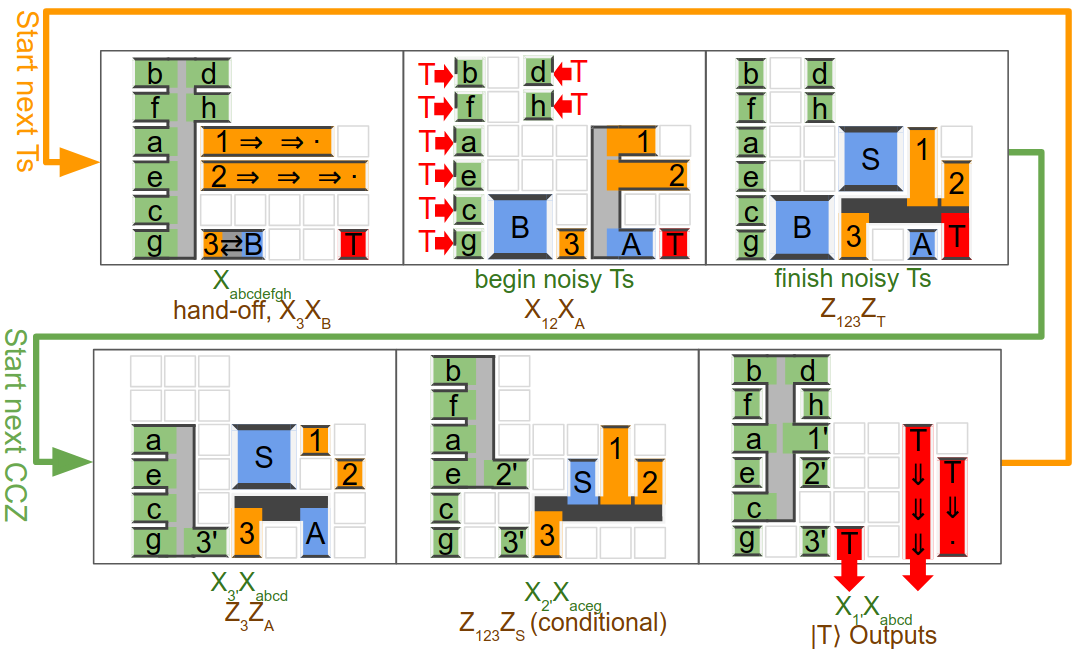
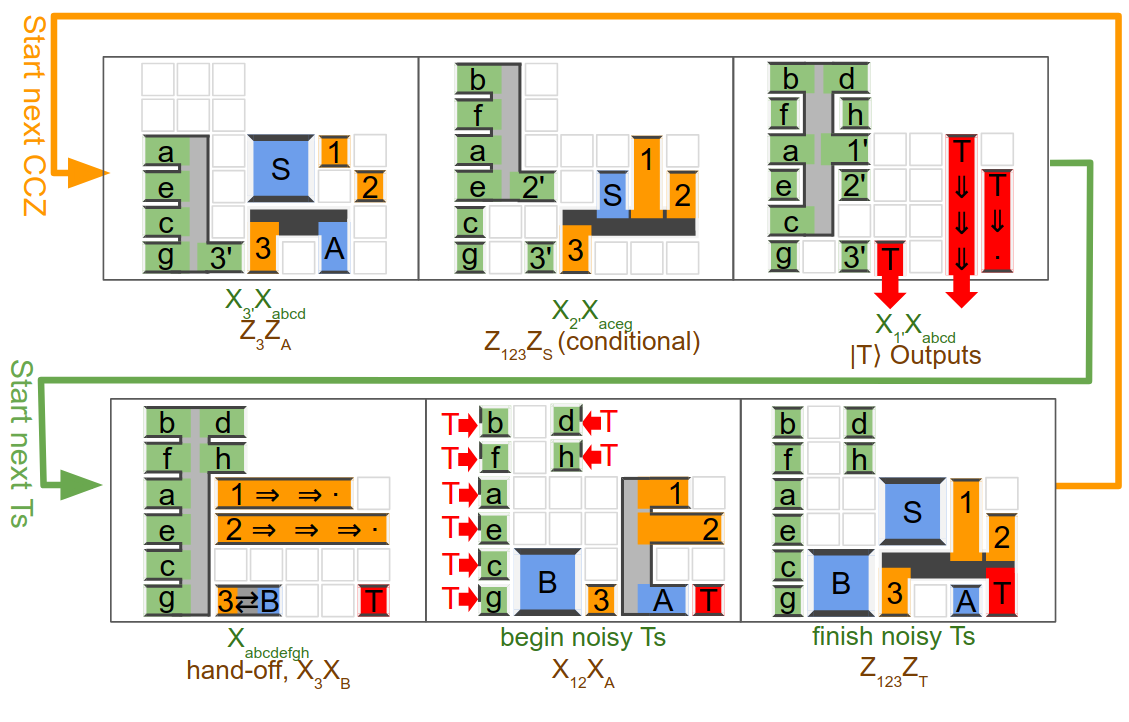
Addressed reviewer and referee comments

diff --git a/main.tex b/main.tex
@@ -54,15 +54,14 @@ This is sufficient for classically intractable instantiations of the chemistry a
 In fault-tolerant quantum computation based on the surface code (a likely component of future error corrected quantum computers due to the surface code's comparatively high threshold and planar connectivity requirements \cite{Brav98,Denn02,Raus07,Raus07d,Fowl12f}), the cost of a quantum algorithm is well approximated by the number of non-Clifford operations.
 This is due to the fact that non-Clifford operations are performed via magic state distillation \cite{bravyi2005}, and the cost of state distillation is large.
 For example, the spacetime volume (qubit-seconds) of the T state factory from \cite{fowler2018} is two orders of magnitude larger than the volume of a CNOT operation between adjacent qubits \cite{horsman2012}.
-The non-Clifford gate count will likely be particularly significant for the earliest error corrected quantum computers, which won't have enough space to distill magic states in parallel.
+The non-Clifford gate count will likely be particularly significant for the earliest error corrected quantum computers, which will not have enough space to distill magic states in parallel.
 
 Over the past decade, thanks to techniques such as block codes \cite{bravyi2012, fowler2013}, bridge compression \cite{fowler2012}, and many others \cite{horsman2012, campbell2017, campbell2018, litinski2018}, the cost of magic state distillation has steadily decreased.
 This paper adds catalyzed phasing to the pile of known techniques, continuing the tradition of gradually chipping away at the convenient approximation that magic states are the dominant cost in error-corrected quantum computation.
-In \fig{overview-dataflow} and \fig{overview-3d}, we give a high-level view of the resulting improvement in footprint and spacetime volume.
+In \fig{overview-dataflow} and \fig{overview-3d}, we give a high-level view of the resulting improvement in footprint and spacetime volume (in the single-factory regime, which is the regime this paper focuses on).
 
 The paper is organized as follows.
-\sec{introduction} is this section. The one you're reading right now. The introduction.
-It provides an overview of the paper, and explains the various notation and diagram conventions we will be using.
+\sec{introduction} provides an overview of the paper, and explains the various notation and diagram conventions we will be using.
 In \sec{ccz}, we explain how to construct an efficient $|CCZ\rangle$ factory by applying the techniques of \cite{fowler2018} to the construction of \cite{jones2013, eastin2013distilling}.
 In \sec{catalysis}, we construct a circuit which can transform a $|CCZ\rangle$ state into two $|T\rangle$ states if a catalyst $|T\rangle$ state is present.
 In \sec{generalize}, we show that this catalyzed circuit generalizes to other phase angles and note that this generalized circuit can produce two $|\sqrt{T}\rangle$ states using only five $|T\rangle$ states.
@@ -147,7 +146,7 @@ Interested readers can estimate the running time and number of physical qubits r
     Assuming a physical gate error rate of $10^{-3}$, and minimal code distances, the $|CCZ\rangle$ factory is unlikely to fail when producing on the order of $10^{10}$ states.
     This is sufficient to run classically intractable chemistry algorithms \cite{babbush2018}, but not quite sufficient to factor a 1024 bit number with a 50\% success rate (assuming that factoring an $n$ bit number requires $12 n^3$ Toffoli gates and $3n$ space \cite{zalka1998fast}).
     However, if the physical gate error rate is improved slightly or (more plausibly) the factory is made slightly larger by increasing the level 1 code distance from 15 to 19, then the number of states that can be produced increases to be on the order of $10^{12}$.
-    This allows 4096 bit numbers to be factored (though we don't recommend using a single factory for this task, since it would take 5 years to produce the necessary magic states assuming a surface code cycle time of 1 microsecond).
+    This allows 4096 bit numbers to be factored (though we do not recommend using a single factory for this task, since it would take 5 years to produce the necessary magic states assuming a surface code cycle time of 1 microsecond).
   }
 \end{figure}
 
@@ -175,8 +174,8 @@ Interested readers can estimate the running time and number of physical qubits r
 }}
 \label{sec:ccz}
 
-A key technique introduced in \cite{fowler2018} is a single-layer multi-qubit stabilizer measurement.
-We use this technique in order to quickly measure the 4 stabilizers of the error-detecting Toffoli \cite{jones2013, eastin2013distilling}.
+A key technique introduced in \cite{fowler2018} is a single-layer stabilizer measurement involving an arbitrary numbers of qubits.
+We use this technique in order to quickly measure the 4 stabilizers of the error-detecting Toffoli distillation protocol \cite{jones2013, eastin2013distilling}.
 See \fig{ccz-circuit} for a circuit diagram of the CCZ-distillation process.
 The operations in the circuit are chosen in a way that trivially translates into lattice surgery.
 In \fig{ccz-slices-simple} we show time slices of one possible translation of the circuit into lattice surgery (with matching qubit labels and operation labels), and then in \fig{ccz-slices} show the time slices of our CCZ factory (corresponding to two interleaved translations of the circuit).
@@ -184,6 +183,8 @@ We also provide an annotated 3D topological diagram of the CCZ factory (see \fig
 
 Our $|CCZ\rangle$ factory has a naive depth of $4$ (stabilizer measurements) + $1.5$ (T state injections) + $1$ (X or Y basis measurement, depending on T injection measurements) + $2$ (detect errors) = $8.5$.
 We use the same technique as in \cite{fowler2018} to partially overlap executions of the factory, resulting in an effective depth of $5.5$.
+The T state injections take $1.5d$ layers because they are performed at half code distance and it takes $0.5d$ layers to move the black side into position for a parity measurement, then $0.5d$ layers to perform the parity measurement, then $0.5d$ layers to return the black side to its original position.
+It is acceptable to inject at half code distance because the incoming T states have an error rate larger than the topological error incurred from an injection at this distance.
 
 Our $|CCZ\rangle$ factory produces magic states fast enough that algorithms will bottleneck on routing instead of magic state production unless special care is taken.
 For example, suppose there are several Toffoli operations to perform on qubits all placed in a common area; a common area with exactly one entrance capable of allowing exactly one qubit to enter or leave every $d$ cycles.
@@ -196,12 +197,12 @@ We see three ways for algorithms to avoid bottlenecking on routing and keep up w
 \begin{enumerate}
 \item
     Increase the amount of space dedicated to routing.
-    Play it safe; don't have areas with narrow entrances or hallways that can only accommodate one qubit per $d$ cycles.
+    Play it safe; do not have areas with narrow entrances or hallways that can only accommodate one qubit per $d$ cycles.
     This strategy is simple and effective, but costly.
 \item
     Carefully distribute logical qubits across multiple disjoint areas with the goal of ensuring that Toffolis rarely target multiple qubits in the same area.
     This avoids the bottleneck by having the magic state qubits pass through multiple different entrances, instead of one common entrance.
-    This strategy won't work for all algorithms, but it will work for some algorithms.
+    This strategy will not work for all algorithms, but it will work for some algorithms.
 \item
     Use generalized CCZ operations capable of targeting arbitrary stabilizers instead of individual qubits, and move Clifford work into the classical control system.
     The generalized CCZ is performed in the same way that \cite{litinski2018} performs generalized T gates targeting arbitrary stabilizers.
@@ -217,7 +218,7 @@ In order to produce a $|CCZ\rangle$ state every $5.5d$ cycles, we need enough le
 The half-code-distance level 1 T factory from \cite{fowler2018} produces a $|T\rangle$ state every $3.25d$ cycles, except when distillation errors are detected.
 Assuming a physical gate error rate of $10^{-3}$ and a level 1 code distance of 15, distillation errors will be detected approximately 3\% of the time (the $|T_0\rangle$ states have $\sim 10^{-3}$ error when injected, gain $\sim 10^{-3}$ error while the level 0 T gates are performed at distance 7, there are fifteen of them, and the most likely case is that a single one fails: $2 \cdot 10^{-3} \cdot 15 = 3\%$).
 These failures reduce the effective output rate to a $|T\rangle$ state every $3.35d$ cycles, so five of these factories will produce $\sim 8.2$ $|T\rangle$ states every $5.5d$ cycles, which is sufficient to keep up with the $|CCZ\rangle$ factory.
-We accumulate a buffer of surplus level 1 $|T\rangle$ states in the small hallways between the $|CCZ\rangle$ factory and the level 1 $|T\rangle$ factories so that a single level 1 T factory failure doesn't delay the entire $|CCZ\rangle$ factory.
+We accumulate a buffer of surplus level 1 $|T\rangle$ states in the small hallways between the $|CCZ\rangle$ factory and the level 1 $|T\rangle$ factories so that a single level 1 T factory failure does not delay the entire $|CCZ\rangle$ factory.
 As shown in \fig{overview-dataflow}, the five level 1 factories are placed to either side of the $|CCZ\rangle$ factory.
 Note that it is occasionally necessary to route the fifth factory's output to the opposite side, and that there is enough contiguous unused volume in the factory to do this when needed.
 
@@ -293,7 +294,8 @@ However, if one increases the level 1 code distance from 15 to 19 (increasing th
     Time increases from bottom to top.
     The vertical poles correspond to qubits from \fig{ccz-circuit}.
     Red boxes indicate connection points for noisy $|T_1\rangle$ states produced by a level 1 T factory.
-    The green boxes atop the vertical poles represent X or Y basis measurements, depending on the result of the parity measurement between the qubit and the inserted $|T_1\rangle$ state.
+    The green boxes atop the columns are performing either an X or Y basis measurement at half code distance, as described in \cite{fowler2018}, by including or omitting an S gate performed using twists \cite{brown2017poking}.
+    Using half code distance is acceptable because, at the location in the factory where these operations are performed (i.e. after the T injections), individual errors are detected as distillation failures.
     The labels along the right hand side indicate the stabilizer measurements occurring at each time.
     The red/blue coloring of labels matches the red/blue coloring of \fig{ccz-slices}.
     Note that inserting the $|T_1\rangle$ state has a depth of 1.5, unlike the other steps which have depth 1.
@@ -336,7 +338,7 @@ That circuit can be rewritten into an inline circuit that transforms three $|+\r
 Then, by diagonalizing that circuit's stabilizer table, said circuit can be rewritten into a form where three of the T gates apply directly to an input $|+\rangle$ state.
 Those three T gates can then be replaced by three $|T\rangle$ state inputs, resulting in a circuit that maps $|T\rangle^{\otimes 3}$ to $|CCZ\rangle$ using Clifford gates and one T gate.
 This circuit contains no measurement, and therefore can be inverted.
-The inverse circuit (shown in \fig{catalysis-circuit-simple}) maps a $|CCZ\rangle$ state to three $|T\rangle$ state using Clifford gates and one T gate.
+The inverse circuit (shown in \fig{catalysis-circuit-simple}) maps a $|CCZ\rangle$ state to three $|T\rangle$ states using Clifford gates and one T gate.
 
 Because $|T\rangle$ states can be used to perform T gates, the T gate used to transform the $|CCZ\rangle$ into three $|T\rangle$ states can be powered by a $|T\rangle$ state output from a previous iteration of the circuit.
 If we keep feeding a $|T\rangle$ state output from iteration $k$ into iteration $k+1$, then we effectively have a circuit that takes a $|CCZ\rangle$ state and outputs two $|T\rangle$ states.
@@ -385,6 +387,9 @@ And finally \fig{catalysis-3d} shows an annotated 3D topological diagram of the 
       Given a $|CCZ\rangle$ state (first three qubits) and a $|T\rangle$ state (fourth qubit), produces three $|T\rangle$ states.
       Red areas correspond to a product-of-Paulis measurement.
       The blue area happens entirely within classical control software.
+      The $S$ ancilla is prepared an $|S\rangle$ state that can be used to correct the T gate teleportation used to perform the $Z^{-1/4}$ gate from \fig{catalysis-circuit-simple}.
+      The $B$ ancilla is being used to perform the $X^{-1/2}$ gate from \fig{catalysis-circuit-simple}.
+      The $A$ ancilla is being used to perform the multi-target CNOT from \fig{catalysis-circuit-simple}.
       The boxes with blue circles, at the beginning and end of the circuit, are state displays from the online simulator Quirk.
       Each circle represents an amplitude (the radius of the colored circle indicates the amplitude's magnitude, and the angle of the line rooted at the center of the circle indicates the phase).
       The state displays are showing that the input and output states are $|CCZ\rangle$ and $|T\rangle$ states as described.
@@ -480,9 +485,9 @@ We now combine the $|CCZ\rangle$ factory from \sec{ccz} with the C2T factory fro
 Note that this means we achieve a 4:1 ratio of input $|T\rangle$ states to output $|T\rangle$ state, which is competitive with the 3:1 ratio of block codes \cite{bravyi2012}.
 This is surprising, because normally one has to work with a larger number of $|T\rangle$ states in order to achieve good ratios.
 
-Note that we don't use exactly the same CCZ factory as in \sec{ccz}.
+Note that we do not use exactly the same CCZ factory as in \sec{ccz}.
 We re-order the stabilizer measurements and place the output qubits in a different location, so that it fits into the C2T factory from \sec{catalysis}.
-Furthermore, we don't bother interleaving the factory with itself anymore.
+Furthermore, we do not bother interleaving the factory with itself anymore.
 There's no point; we need five $T_1$ factories to run at the rate achieved by interleaving but now only have four factories (recall \fig{overview-dataflow}).
 
 The details of the combined factory are covered in \fig{full-slices}, which shows the parallel operation of C2T factory and CCZ factory.
@@ -520,7 +525,7 @@ Therefore the $T_1$ factories can keep up with the catalyzed T factory producing
         The qubits of A and B have been permuted so that their first stabilizer measurement involves qubits that are all on the same side, allowing the stabilizer measurement to be performed without using a central bar.
         The second measurement of B (the first measurement using the central bar) is over the back 8 qubits and the last measurement of A is over the front 8 qubits.
         This allows B to be lowered by half of $d/2$, so that B rests on the level 0 $|T\rangle$ injections to the right of A.
-        The transition back from B to A can't be lowered quite as far, because the top of B would intersect the first central bar used in A.
+        The transition back from B to A cannot be lowered quite as far, because the top of B would intersect the first central bar used in A.
         Overall this optimization saves $0.5d/2$ depth relative to the interleaving technique used in \cite{fowler2018}.
     }
 \end{figure}
@@ -569,13 +574,24 @@ However, the effect of this optimization on the topological error rate is diffic
 Another possible optimization is to eagerly route $|CCZ\rangle$ qubits emerging from the CCZ factory to their final destination (in preparation for a parity measurement), instead of holding them next to the factory until they are verified.
 Removing the output-holding area reduces the CCZ factory's footprint by over 20\%, which is a large gain, but it is important to keep in mind that this is not a true reduction in volume but rather a reclassification of some of the factory's volume as routing volume.
 
-In this paper we focused on making a low-depth low-volume factory, but it is also important to consider factories optimized to have a tiny footprint.
+In this paper we focused on making a low-volume factory in the single-factory regime, but it is also important to consider factories optimized to have a tiny footprint.
 Early quantum computers will have limited space; it's worth sacrificing depth if it means the factory actually fits on the machine.
 By combining techniques from this paper and low-footprint distillation techniques mentioned in \cite{litinski2018}, it should be possible to create factories covering fewer qubits but with roughly the same volume as ours.
+
+Another interesting avenue to explore is the high-footprint / multi-factory regime, where factories based on block codes become possible.
+Even without catalysis, block factories can use the flexibility allowed by their larger footprints to outperform the efficiency of our factory.
+For example, according to table 1 of \cite{ogorman2017factories}, assuming a physical gate error rate of $10^{-3}$, block factories can distill a CCZ state using on the order of $10^7$ qubit-rounds while achieving error rates on the order of $10^{-11}$.
+Our factory's volume and error rate are 2-3 times larger than these respective numbers.
+(Note that the estimate from \cite{ogorman2017factories} assumes a $|T_0\rangle$ injection error rate of $0.4 \cdot 10^{-3}$, whereas we assume  $10^{-3}$.
+Also, \cite{ogorman2017factories} does not produce an explicit physical layout which, in our experience, reveals unforeseen packing overheads.)
+But are there catalyzed block factories that are more efficient than normal block factories?
+We don't know the answer to this question.
 
 We suspect that the space of quantum circuits contains many other gems akin to the catalyzed phasing circuit.
 We consider finding these circuit to be important, because they can be surprisingly efficient at their tasks.
 It would be particularly useful to have a general framework for finding catalyzed circuits, to better understand the connections with related constructions such as distillation via parity-checks \cite{campbell2018} and phase gradient kickbacks \cite{kitaev2002, gidney2018, nam2018}, and to better understand what makes circuits using these ideas efficient.
+Our guess is that there are a small number of circuit identities underlying all these related but different techniques, and that each technique is rewriting and interpreting the underlying circuit identities in a different way.
+If the connection is actually of this form, then perhaps it is possible to write code that takes a distillation circuit, derives the identity the circuit is using, and then produces a whole related family of interesting circuits (perhaps including circuits that use catalysis).
 
 
 \section{Acknowledgements}
